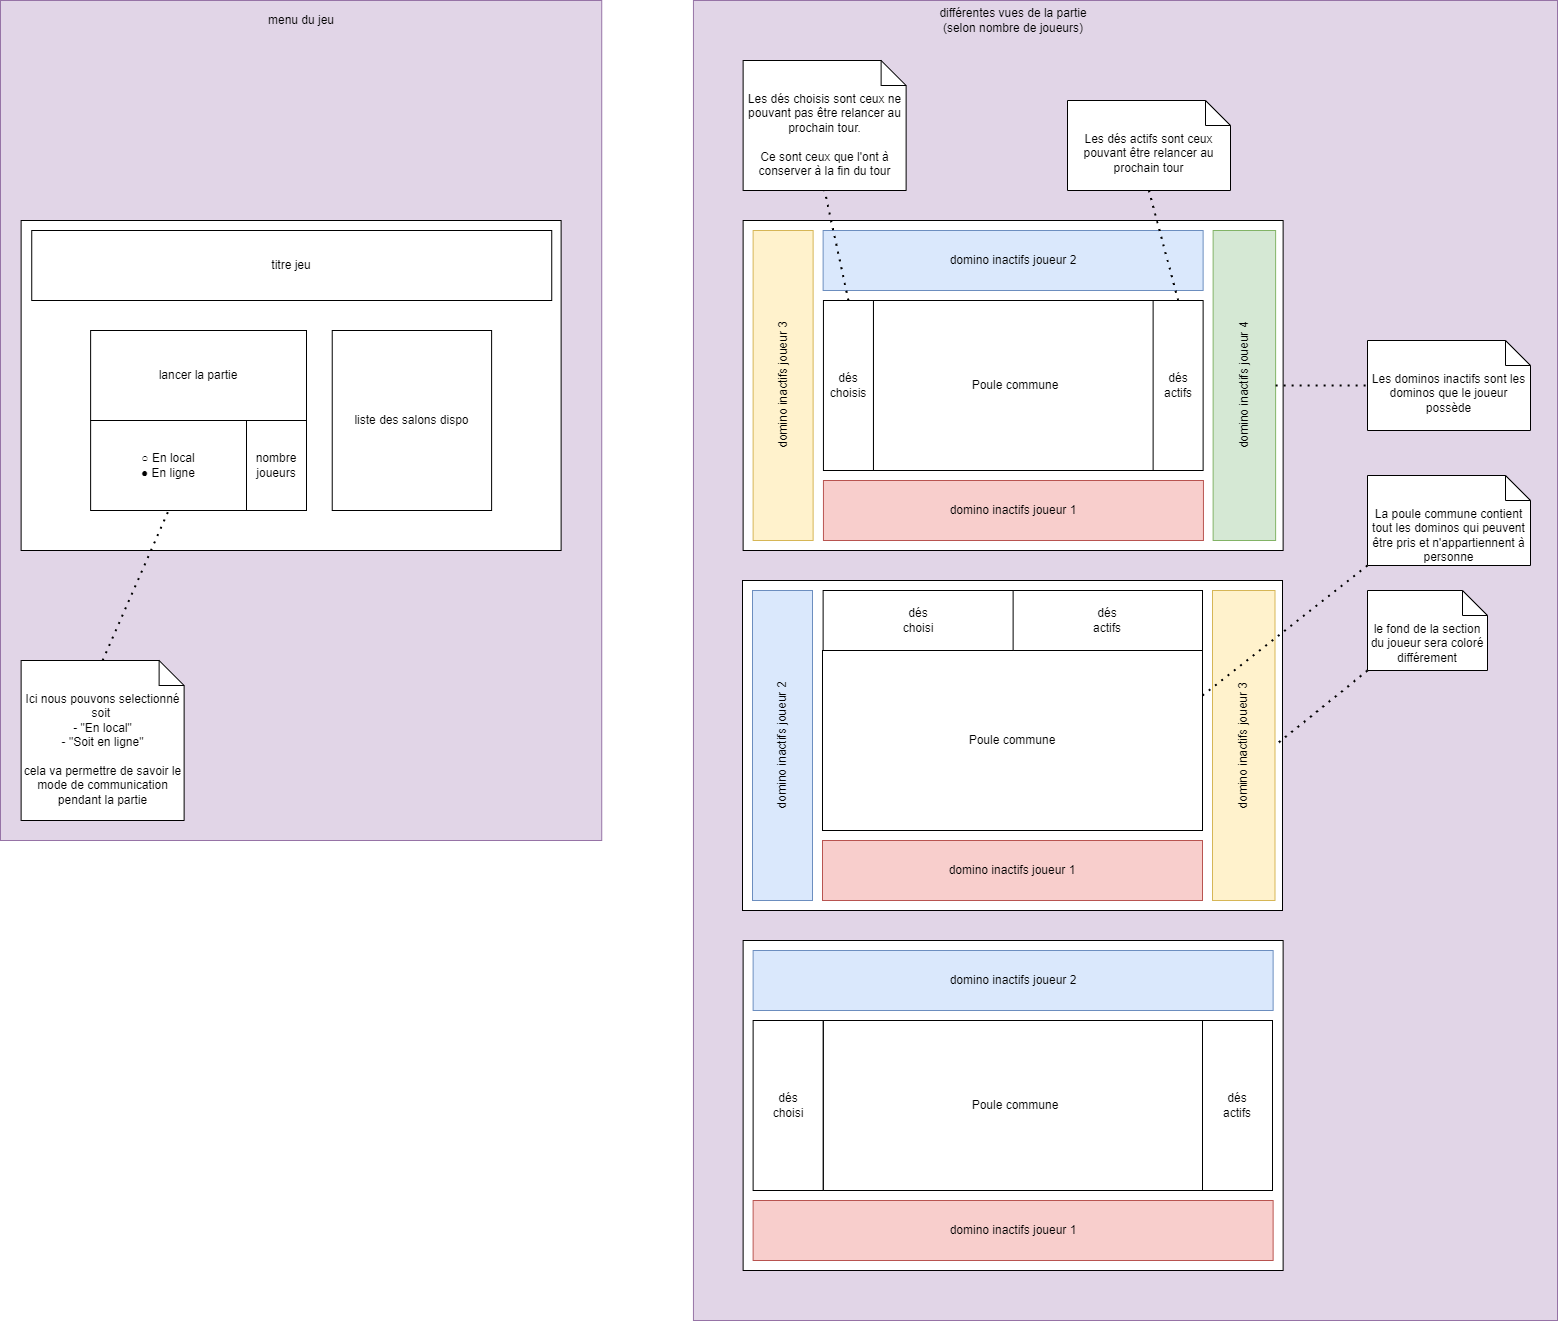
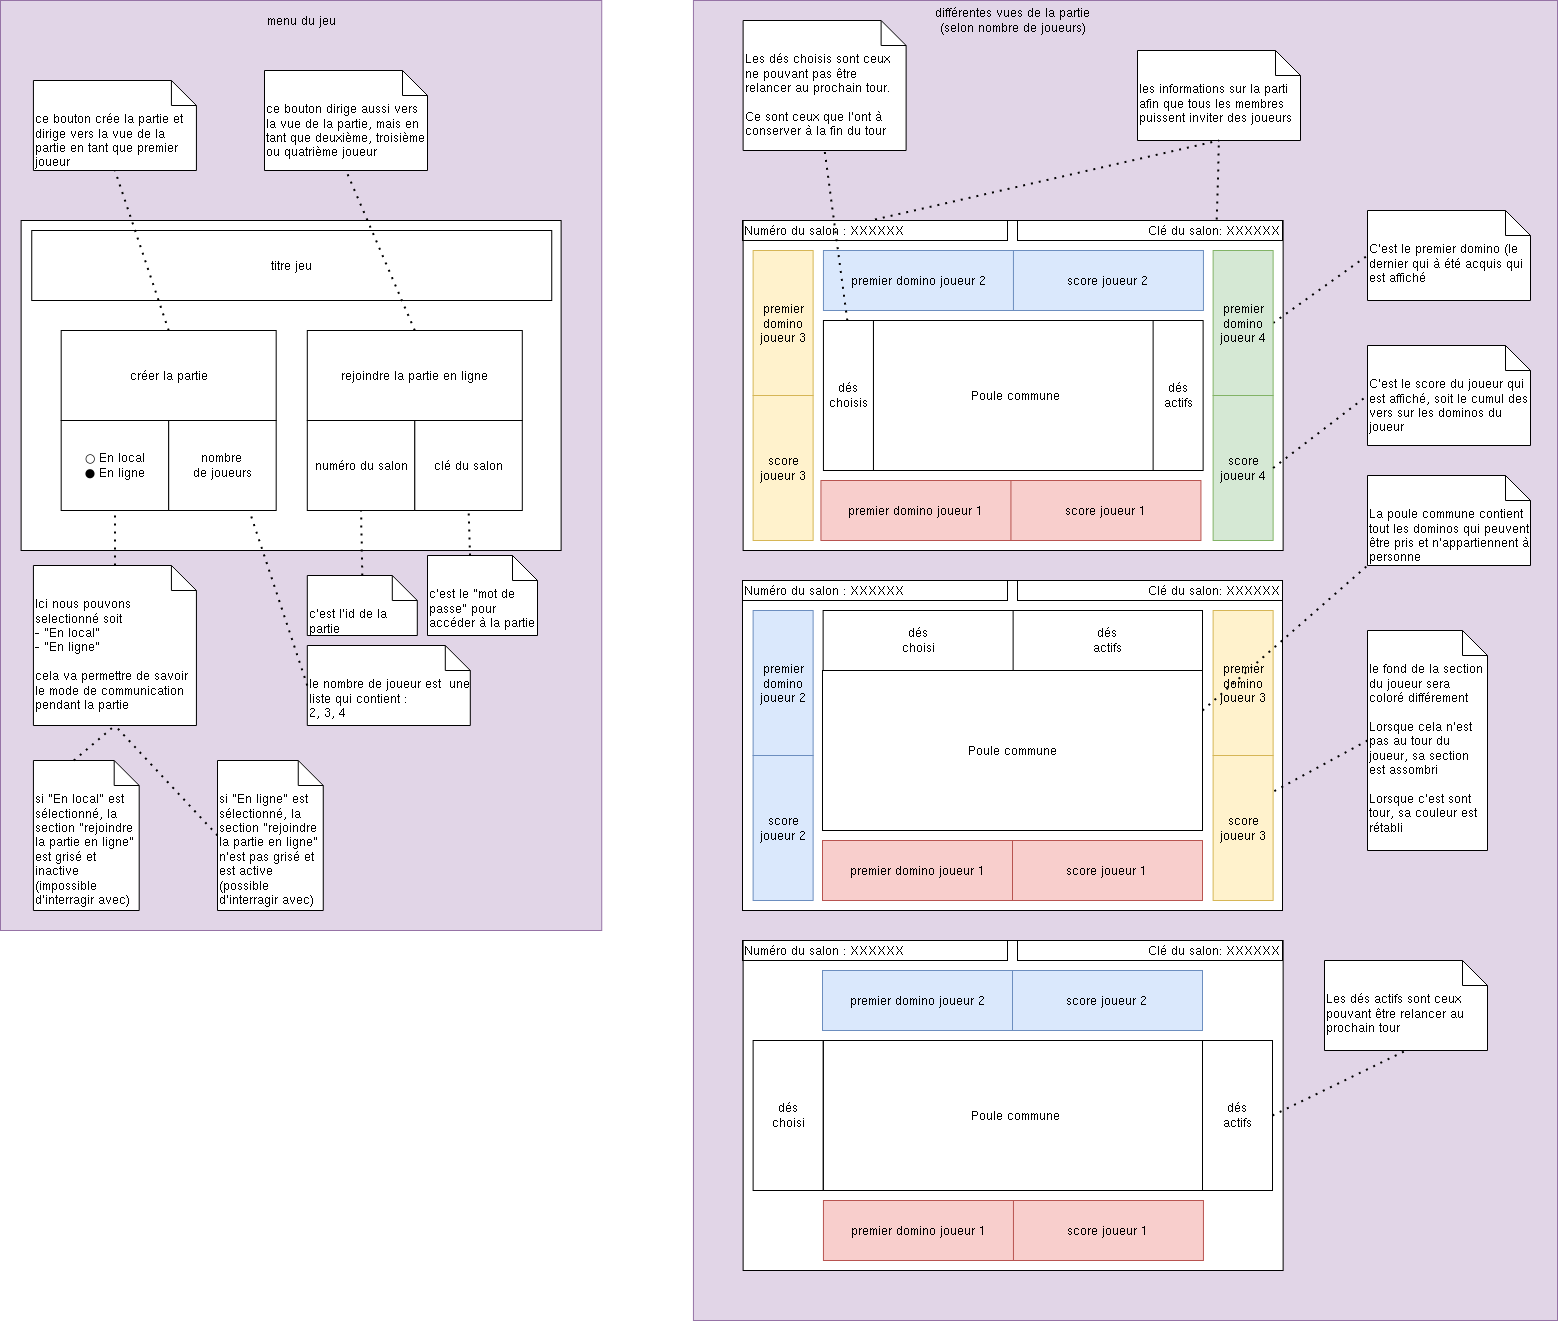
test vue + update drawio

diff --git a/src/main/kotlin/Vue_4j.kt b/src/main/kotlin/Vue_4j.kt
@@ -1,27 +1,14 @@
-package ihm.td2
-
 import javafx.application.Application
 import javafx.geometry.Insets
 import javafx.scene.Scene
 import javafx.scene.control.Button
-import javafx.scene.layout.Border
-import javafx.scene.layout.BorderPane
-import javafx.scene.layout.ColumnConstraints
-import javafx.scene.layout.GridPane
-import javafx.scene.layout.RowConstraints
-import javafx.scene.layout.VBox
+import javafx.scene.layout.*
 import javafx.scene.paint.Color
 import javafx.stage.Stage
 
-
-class Vue4j: Application() {
-
-    override fun start(stage: Stage) {
-        stage.title="GridPane example"
-        val root = BorderPane()
-        root.padding = Insets(10.0, 10.0, 10.0, 10.0)
-
-        val jeu = GridPane()
+class Vue_4j: BorderPane() {
+    init {
+        val jeu = BorderPane()
         val joueur1 = GridPane()
         val joueur2 = GridPane()
         val joueur3 = GridPane()
@@ -29,7 +16,7 @@ class Vue4j: Application() {
 
         val RC_joueur1 = RowConstraints()
         val CC_joueur1 = ColumnConstraints()
-        RC_joueur1.minHeight= 100.0
+        RC_joueur1.minHeight = 100.0
         CC_joueur1.maxWidth = 10.0
         joueur1.rowConstraints.add(RC_joueur1)
         joueur1.columnConstraints.add(CC_joueur1)
@@ -53,29 +40,16 @@ class Vue4j: Application() {
 //        jeu.columnConstraints.add(CC_jeu)
 //        jeu.rowConstraints.add(RC_jeu)
 
-        root.bottom=joueur1
-        root.top=joueur2
-        root.right=joueur3
-        root.left=joueur4
-        root.center=jeu
+        this.bottom=joueur1
+        this.top=joueur2
+        this.right=joueur3
+        this.left=joueur4
+        this.center=jeu
 
         BorderPane.setMargin(joueur1, Insets(10.0, 0.0, 0.0, 0.0))
         BorderPane.setMargin(joueur2, Insets(0.0, 0.0, 10.0, 0.0))
         BorderPane.setMargin(joueur3, Insets(0.0, 0.0, 0.0, 10.0))
         BorderPane.setMargin(joueur4, Insets(0.0, 10.0, 0.0, 0.0))
-
-        root.bottom.style="-fx-background-color: red ; -fx-border-color:black"
-        root.top.style="-fx-background-color: blue; -fx-border-color:black"
-        root.right.style="-fx-background-color: green; -fx-border-color:black"
-        root.left.style="-fx-background-color: yellow; -fx-border-color:black"
-        root.center.style="-fx-background-color: white; -fx-border-color:black"
-
-
-
-        root.maxHeight= Double.MAX_VALUE
-        val scene = Scene(root, 800.0, 600.0)
-        stage.scene=scene
-        scene.fill = Color.web("#A0A0A0");
-        stage.show()
     }
+
 }

diff --git a/src/main/kotlin/Vue_menu.kt b/src/main/kotlin/Vue_menu.kt
@@ -1,18 +1,62 @@
 
-import javafx.scene.layout.HBox
-import javafx.scene.layout.VBox
-import javafx.scene.control.Label
-import javafx.scene.control.Button
+import javafx.collections.FXCollections
+import javafx.scene.layout.*
+import javafx.scene.control.*
+
+import javafx.scene.control.RadioButton
+import javafx.scene.control.ToggleGroup
 
 class Vue_menu:VBox() {
-    val titre = Label("Pickomino")
+    init {
+        val titre = Label("Pickomino")
+        val partie = HBox()
+        //dans partie
+        val creation_menu = VBox()
+            //dans creation_menu
+        val create_game = Button("Créer la partie")
+        val setting_game = HBox()
+                //dans setting_game
+                    //dans player_number_game
+        val options = FXCollections.observableArrayList("2", "3", "4")
+        val player_number_game =  ChoiceBox(options)
+        player_number_game.selectionModel.selectFirst()
 
-    val partie = HBox() //contient  creation_menu et join_menu
-    val creation_menu = VBox()
+        val type_game = VBox()
+                    //dans type_game
+        val radio_group:ToggleGroup? = ToggleGroup()
+        val local_game = RadioButton("En local")
+        val online_game = RadioButton("En ligne")
+        local_game.toggleGroup = radio_group
+        online_game.toggleGroup = radio_group
 
-    val create_game = Button()
+        val join_menu = VBox()
+            //dans join_menu
 
 
-    val join_menu = VBox()
+        //ajout elements
+        type_game.children.addAll(local_game,online_game)
+        setting_game.children.addAll(type_game,player_number_game)
+        creation_menu.children.addAll(create_game,setting_game)
+        partie.children.addAll(creation_menu,join_menu)
+        this.children.addAll(titre,partie)
+        //propriétées
+        for (i in partie.lookupAll("*")) {
+            i.minWidth(Double.MAX_VALUE)
+            i.minHeight(Double.MAX_VALUE)
+            i.style = "-fx-border-color : black"
+        }
+        //titre
+        //partie
+        //creation_menu
+        //join_menu
+        //setting_game
+        //create_game
+        //type_game
+        //player_number_game
+        //local_game
+        //online_game
+
+    }
+
 
 }

diff --git a/src/main/kotlin/Main.kt b/src/main/kotlin/Main.kt
@@ -8,7 +8,6 @@ class TD2_1: Application() {
     override fun start(stage: Stage) {
         val vue = Vue_menu()
         stage.title="Pickomino"
-
         val scene = Scene(vue,900.0, 300.0)
         stage.scene=scene
         stage.show()
